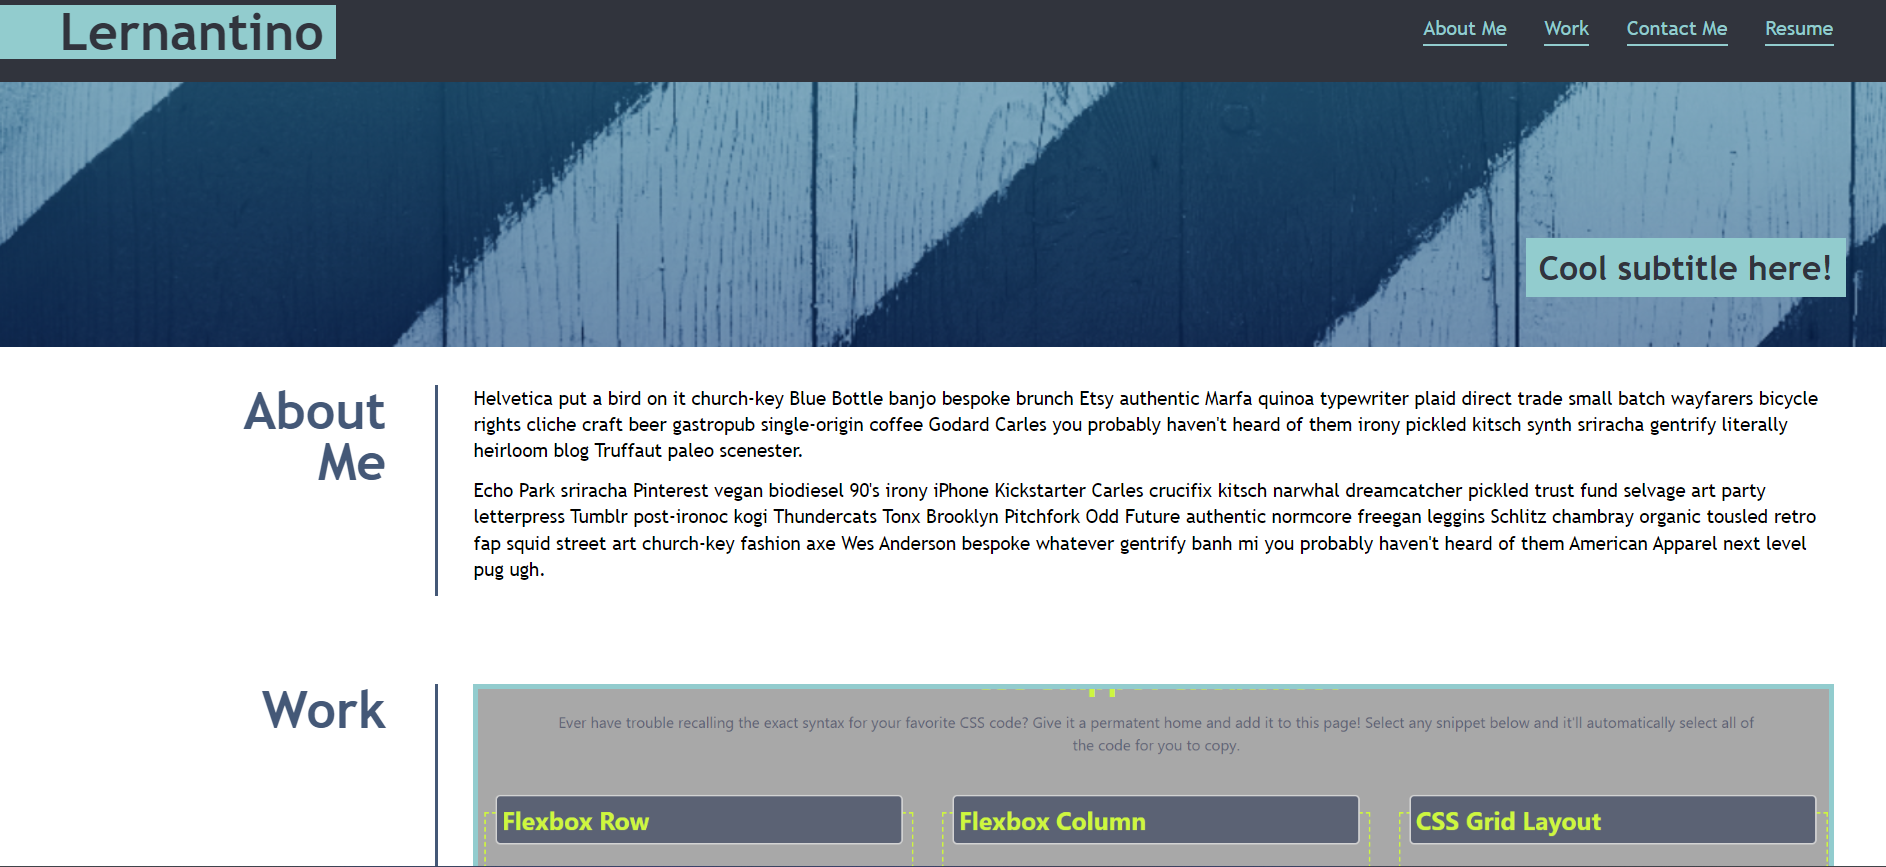
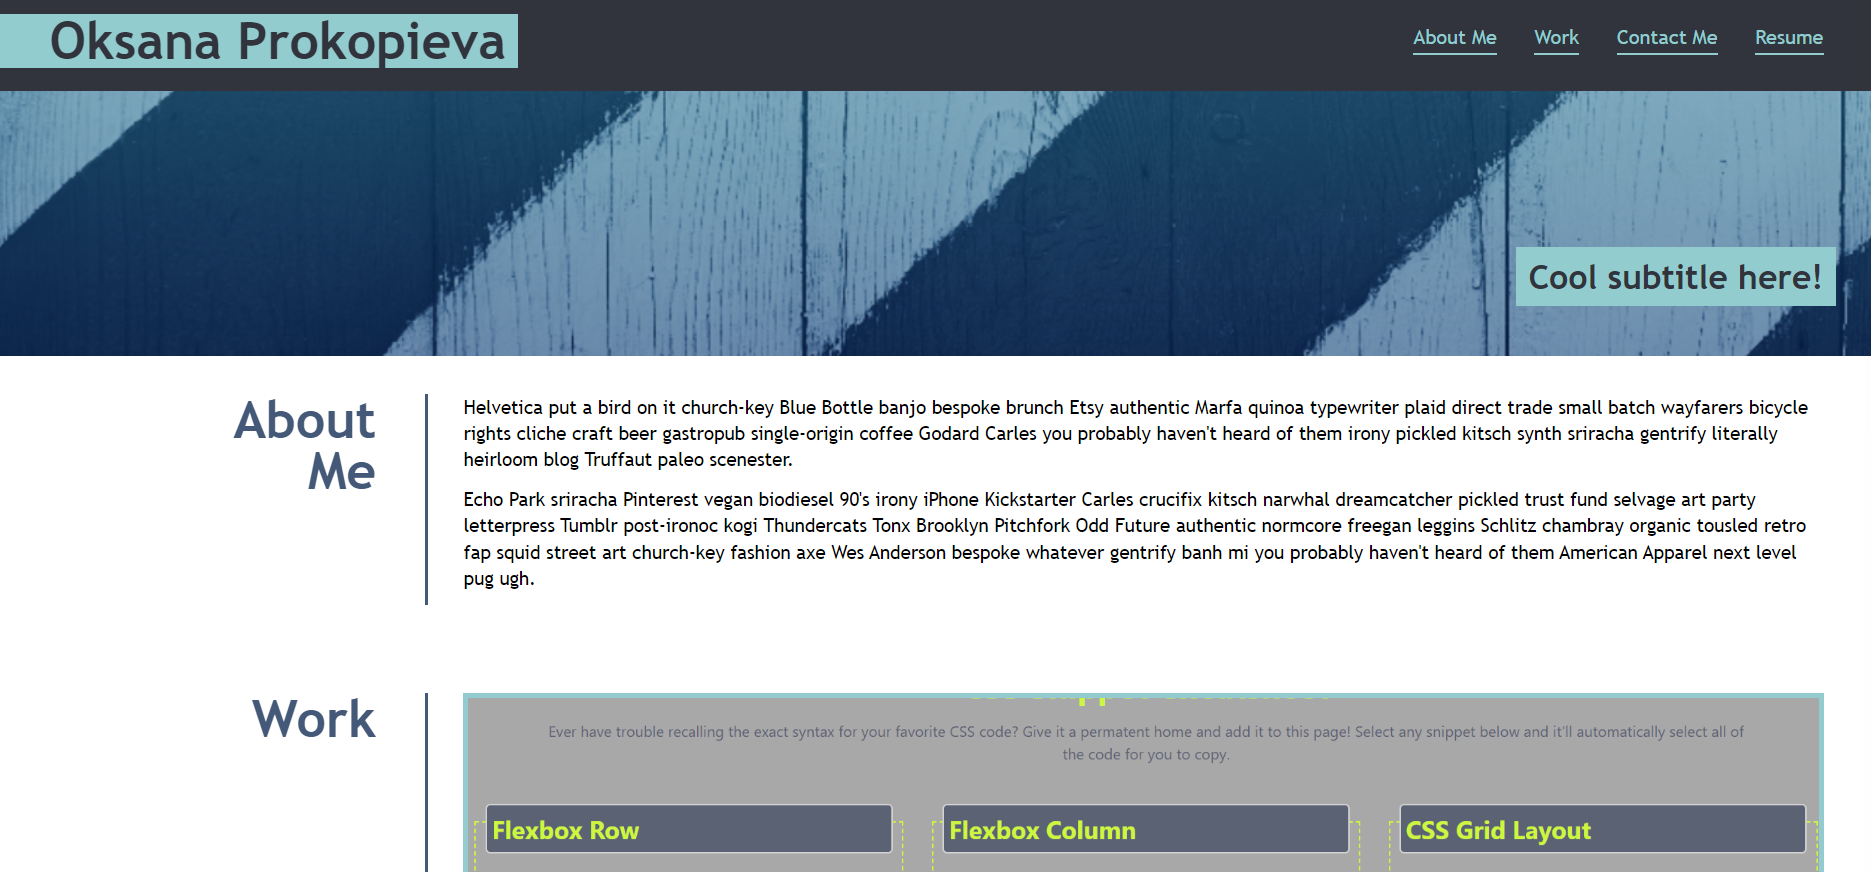
add vibeTogether project and update README file

diff --git a/index.html b/index.html
@@ -5,12 +5,12 @@
     <meta name="viewport" content="width=device-width, initial-scale=1.0" />
     <link rel="stylesheet" href="./assets/reset.css" />
     <link rel="stylesheet" href="./assets/style.css" />
-    <title>Lernantino</title>
+    <title>Oksana Prokopieva</title>
   </head>
   <body>
     <!-- Header -->
     <header>
-      <h2 class="logo">Lernantino</h2>
+      <h2 class="logo">Oksana Prokopieva</h2>
       <nav>
         <a href="#about-me" class="nav-item">About Me</a>
         <a href="#work" class="nav-item">Work</a>
@@ -82,10 +82,10 @@
                 <p class="technologies">MERN Stack</p>
               </div>
             </a>
-            <a href="https://github.com/oprokopieva382" class="css-html-project">
+            <a href="https://github.com/oprokopieva382/vibeTogether" class="css-html-js-project">
               <div class="description">
-                <p class="cheatsheet">Run Buddy</p>
-                <p class="technologies">HTML/CSS</p>
+                <p class="cheatsheet">VibeTogether</p>
+                <p class="technologies">HTML/CSS/JS</p>
             </div>
           </a>
         </article>

diff --git a/assets/style.css b/assets/style.css
@@ -114,7 +114,7 @@ aside > h2 {
 .node-project,
 .react-project,
 .mern-project,
-.css-html-project {
+.css-html-js-project {
   flex: 0 0 49%;
   min-height: 150px;
   border: 4px solid var(--light);
@@ -131,8 +131,8 @@ aside > h2 {
 .mern-project {
   background-image: url(./images/puzzle-piece.jpg);
 }
-.css-html-project {
-  background-image: url(./images/run-buddy.png);
+.css-html-js-project {
+  background-image: url(./images/vibeTogether.png);
 }
 .main-project {
   flex: 0 0 100%;
@@ -205,7 +205,7 @@ a:hover {
   .node-project,
   .react-project,
   .mern-project,
-  .css-html-project {
+  .css-html-js-project {
     min-width: 100%;
   }
 }
@@ -214,7 +214,7 @@ a:hover {
   .node-project,
   .react-project,
   .mern-project,
-  .css-html-project {
+  .css-html-js-project {
     flex: 0 0 48.8%;
   }
    .break {
